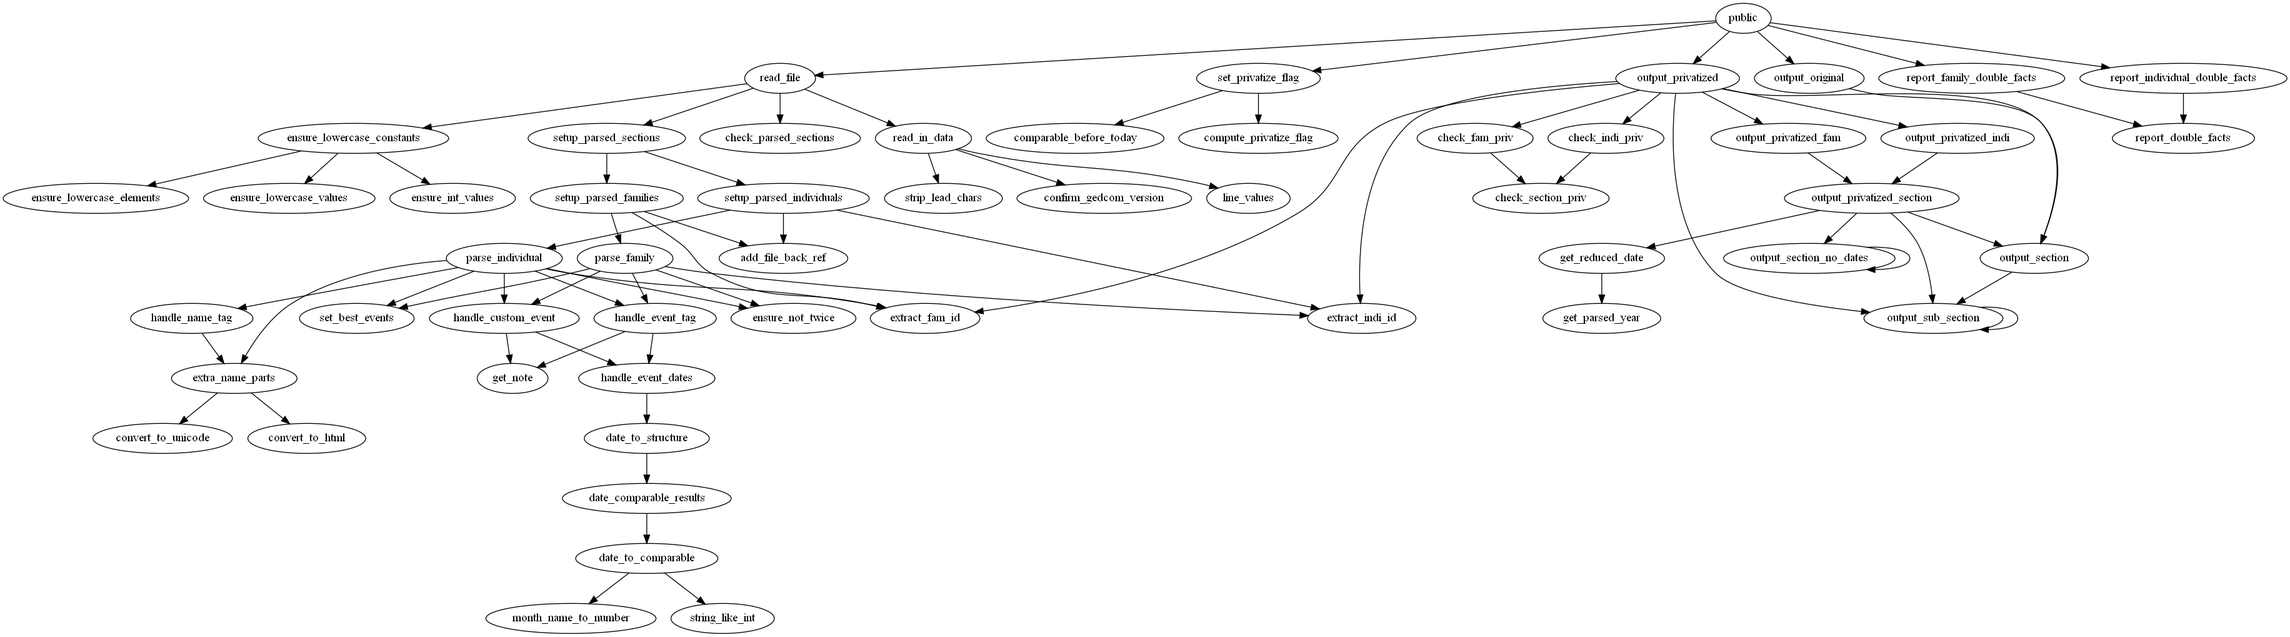
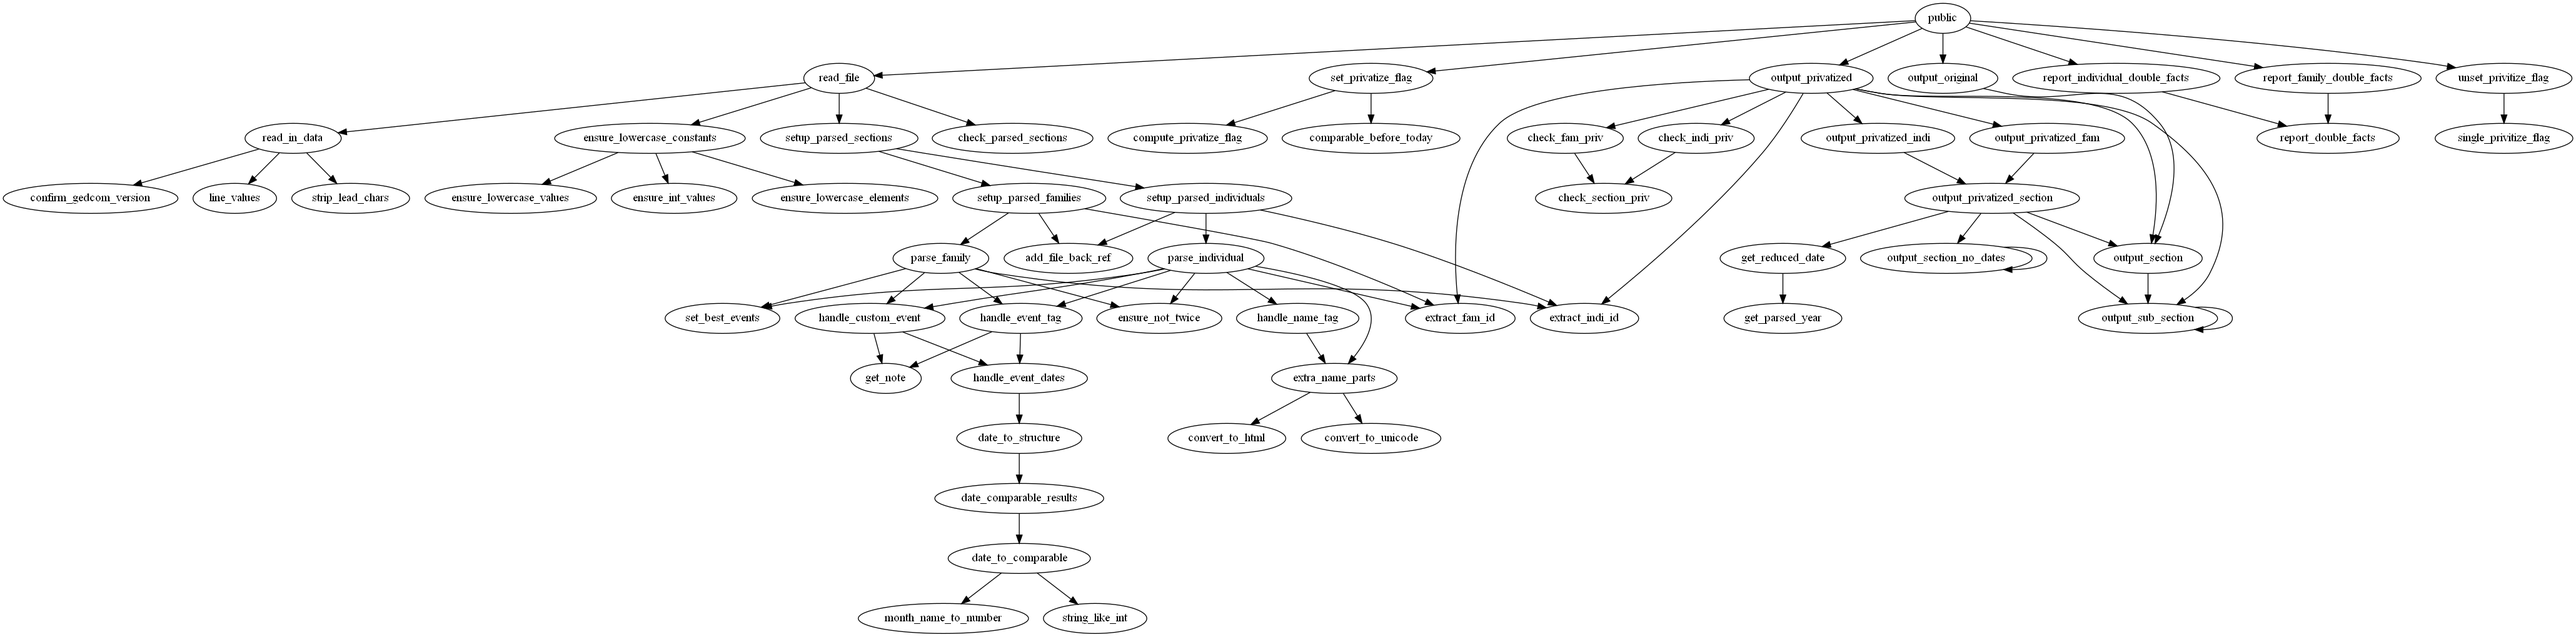
Add unset_privitize_flag

diff --git a/readgedcom.py b/readgedcom.py
@@ -10,6 +10,8 @@ Public functions:
 
     set_privitize_flag( data )
 
+    unset_privitize_flag( data )
+
     output_privitized( data, out_file_name )
 
     report_individual_double_facts( data )
@@ -33,7 +35,7 @@ Specs at https://gedcom.io/specs/
 
 This code is released under the MIT License: https://opensource.org/licenses/MIT
 Copyright (c) 2021 John A. Andrea
-v0.9.2
+v0.9.3
 """
 
 import sys
@@ -1293,6 +1295,23 @@ def compute_privatize_flag( death_limit, birth_limit, data ):
                     break
 
     return result
+
+
+def single_privitize_flag( flag_value, data ):
+    """ Set the same privacy flag for everyone. """
+    assert isinstance( flag_value, int ), 'Non-int passed as privacy flag'
+    assert isinstance( data, dict ), 'Non-dict passed as data'
+
+    for indi in data[PARSED_INDI]:
+        data[PARSED_INDI][indi][PRIVATIZE_FLAG] = flag_value
+
+    for fam in data[PARSED_FAM]:
+        data[PARSED_FAM][fam][PRIVATIZE_FLAG] = flag_value
+
+
+def unset_privitize_flag( data ):
+    """ Turn off the privitize for everyone."""
+    single_privitize_flag( PRIVATIZE_OFF, data )
 
 
 def set_privatize_flag( data, years_since_death=20, max_lifetime=104 ):

diff --git a/README.md b/README.md
@@ -25,6 +25,8 @@ output_original( data, out_file_name )
 
 set_privitize_flag( data )
 
+unset_privitize_flag( data )
+
 output_privitized( data, out_file_name )
 
 report_individual_double_facts( data )
